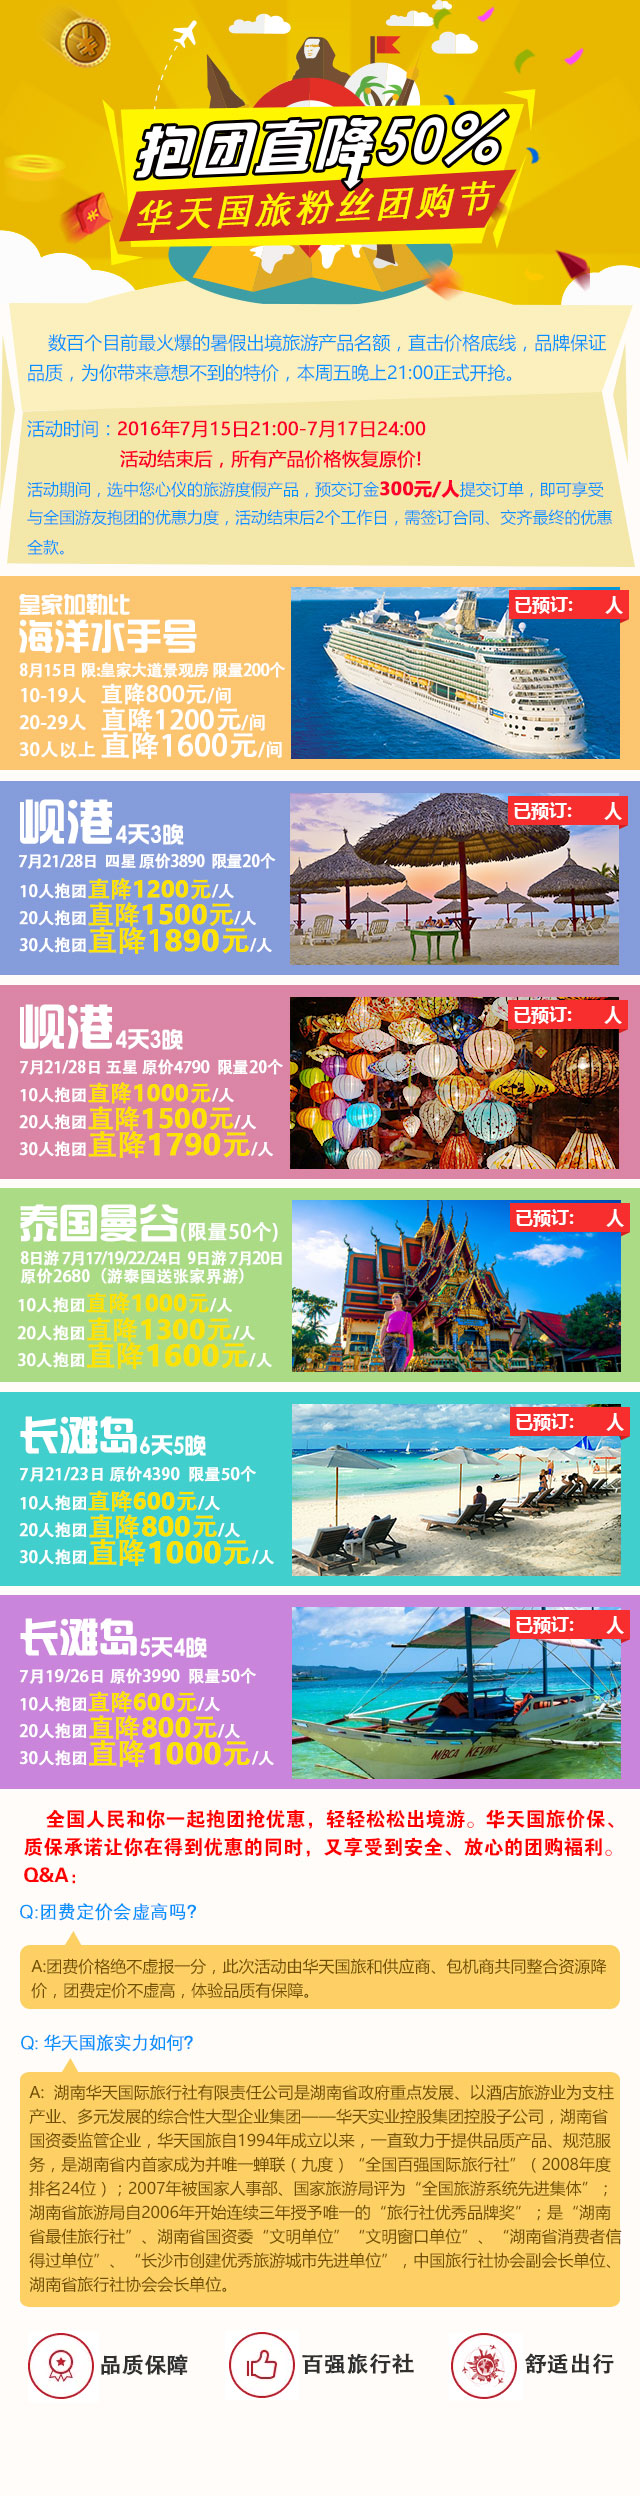
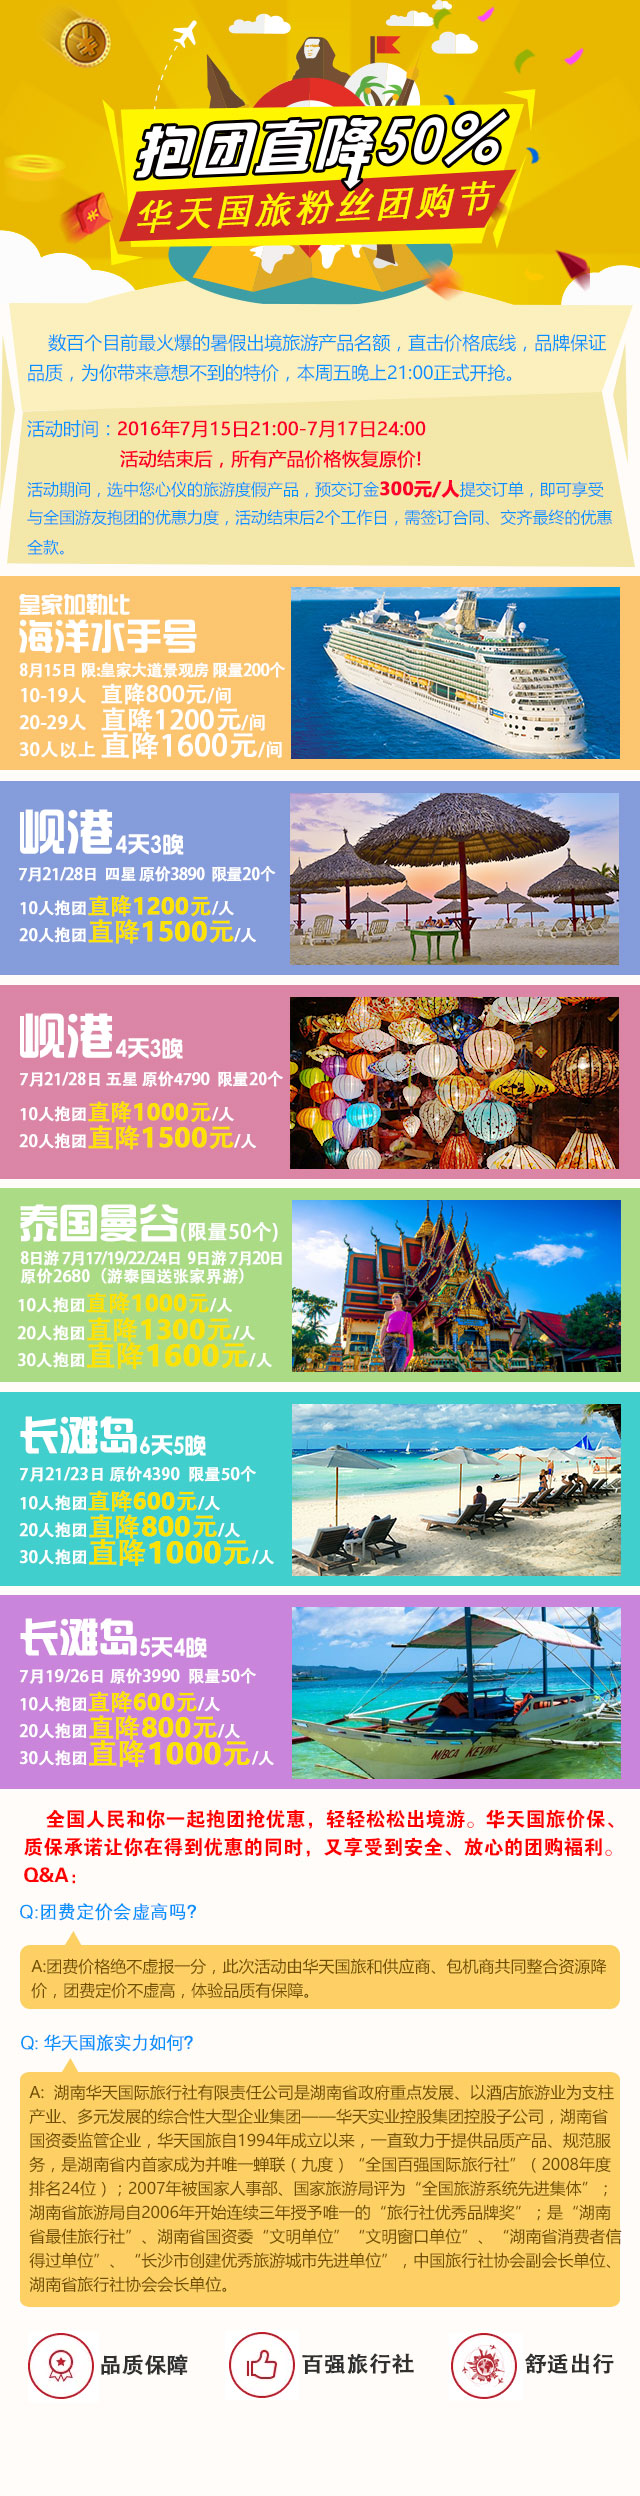
优化显示效果

diff --git a/www/fm_group.html b/www/fm_group.html
@@ -16,7 +16,7 @@
 	<!--avalon框架-->
 	<script src="./bower_components/avalon/avalon.js"></script>
 	<!--js配置文件-->
-	<script src="./config.js?20160714"></script>
+	<script src="./config.js?20160714a"></script>
 
 	<script>
 		avalon.ready(function () {
@@ -43,7 +43,7 @@
 				var lineid = $(this).attr('lineid');
 				$.getJSON('http://www.htyou.com/mobile/tourorder_queryTourOrderCount.action?jsoncallback=?&lineid='+lineid, function(result){
 					console.log(lineid,result.count);
-					$('.count[lineid='+lineid+']').text(result.count);
+					$('.count[lineid='+lineid+']').text('已预订：'+result.count+'人');
 				});
 			});
 		});
@@ -90,54 +90,58 @@
 	}
 	.count {
 		position: absolute;
-		right: 34px;
+		width: 120px;
+		height: 34px;
+		background: url(./images/fm_group_flag.png)no-repeat center top;
+		right: 9px;
 		top: 16px;
 		color: #FFF;
-		font-size: 21px;
+		font-size: 17px;
 		line-height: 29px;
-		height: 29px;
-		/*font-family: Arial;*/
+		text-align: center;
+		/* height: 29px; */
+		/* font-family: Arial; */
 	}
 </style>
 <div id="main-panel">
 	<img src="./images/fm_group_main.jpg" alt="">
 	<!--产品1-->
-	<a href="tour-detail.html?lineid=12825">
+	<a href="#" link="tour-detail.html?lineid=12882">
 		<div class="product" style="top: 576px;">
-			<div class="count" lineid="12825"></div>
+			<div class="count" lineid="12882"></div>
 		</div>
 	</a>
 	<!--产品2-->
 
-	<a href="tour-detail.html?lineid=12880">
+	<a href="#" link="tour-detail.html?lineid=12880">
 		<div class="product" style="top: 781px;">
 			<div class="count" lineid="12880"></div>
 		</div>
 	</a>
 	<!--产品3-->
 
-	<a href="tour-detail.html?lineid=12874">
+	<a href="#" link="tour-detail.html?lineid=12874">
 		<div class="product" style="top: 985px;">
 			<div class="count" lineid="12874"></div>
 		</div
 		></a>
 	<!--产品4-->
 
-	<a href="tour-detail.html?lineid=12879">
+	<a href="#" link="tour-detail.html?lineid=12879">
 		<div class="product" style="top: 1188px;">
 			<div class="count" lineid="12879"></div>
 		</div
 		></a>
 	<!--产品5-->
 
-	<a href="tour-detail.html?lineid=12876">
+	<a href="#" link="tour-detail.html?lineid=12884">
 		<div class="product" style="top: 1392px;">
-			<div class="count" lineid="12876"></div>
+			<div class="count" lineid="12884"></div>
 		</div
 		></a>
 	<!--产品6-->
 
-	<a href="tour-detail.html?lineid=12881">
+	<a href="#" link="tour-detail.html?lineid=12881">
 		<div class="product" style="top: 1595px;">
 			<div class="count" lineid="12881"></div>
 		</div
